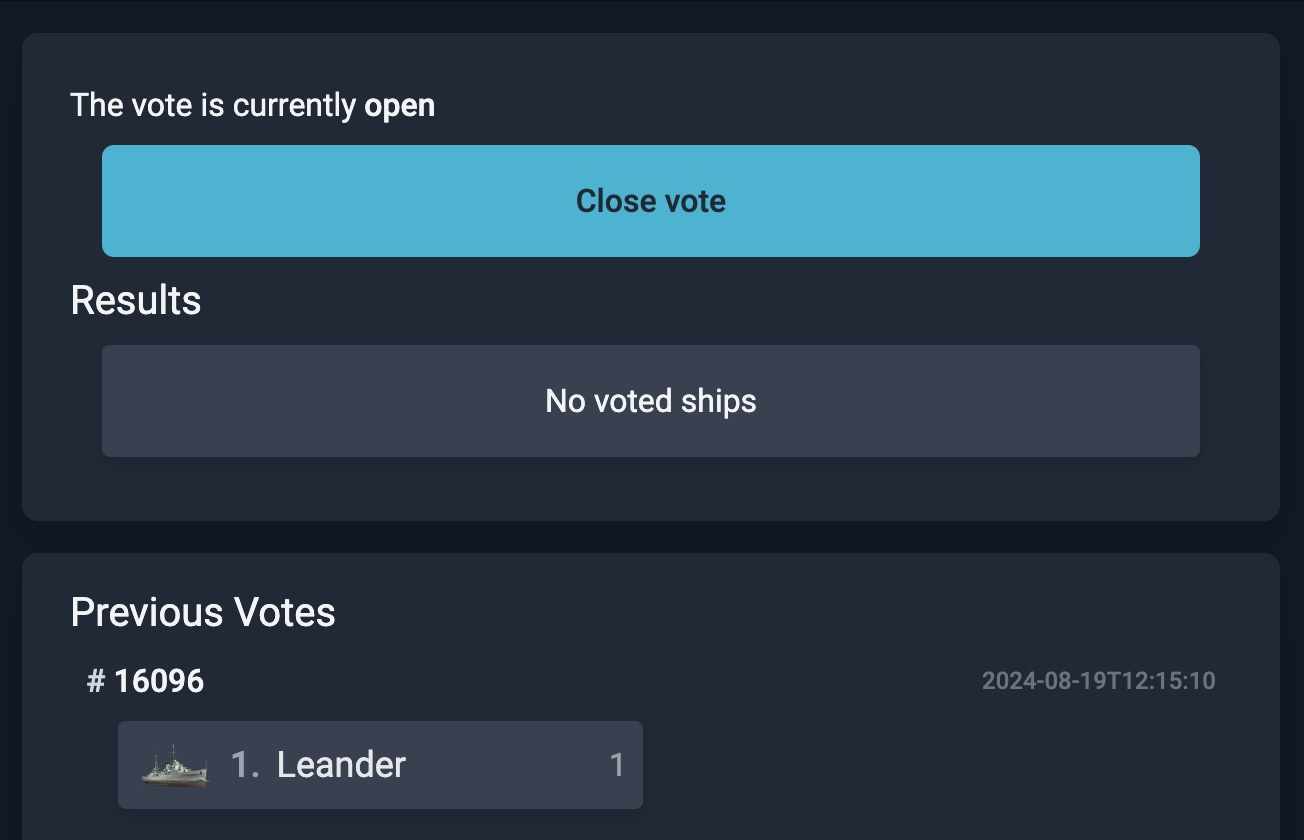
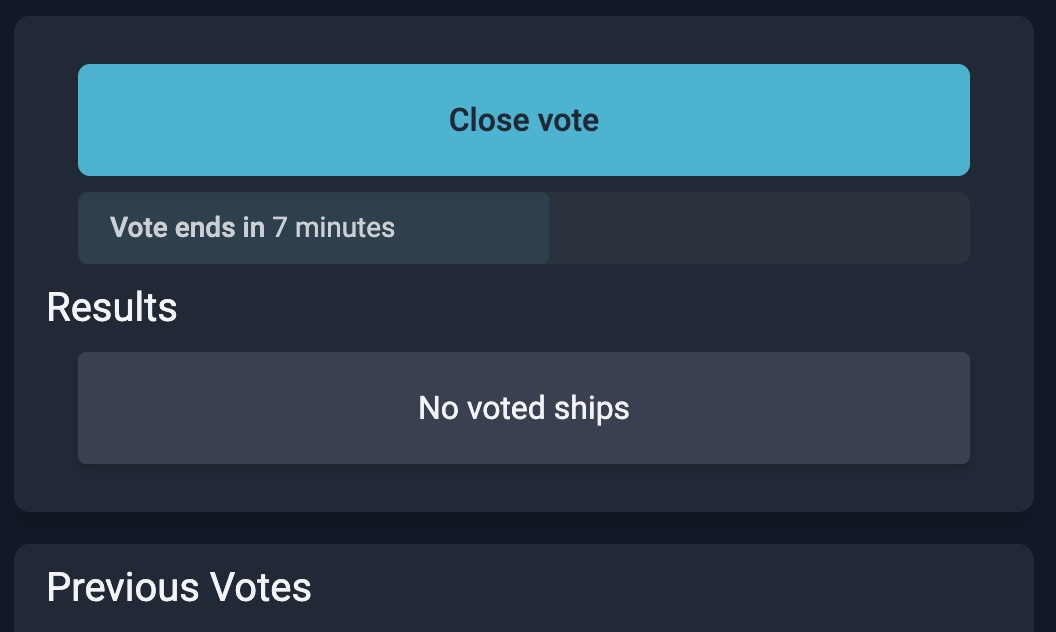
fix remaining vote time

diff --git a/frontend/src/lib/components/VoteStatus.svelte b/frontend/src/lib/components/VoteStatus.svelte
@@ -27,31 +27,28 @@
 
 {#if $vote && $vote.status === "open"}
   <Box>
-    The vote is currently
+    <div class="flex items-center justify-around">
+      <h2 class="text-2xl font-semibold"></h2>
+    </div>
+    <div class="mt-2 flex flex-col justify-around gap-2 px-4">
+      <button
+        on:click={() => closeVote()}
+        class="rounded-md px-8 py-4 font-medium transition active:bg-cyan-600 active:ring-2 active:ring-cyan-400"
+        class:text-gray-800={$vote !== undefined}
+        class:text-gray-200={$vote === undefined}
+        class:bg-gray-700={$vote === undefined}
+        class:bg-cyan-500={$vote !== undefined}
+        class:hover:bg-cyan-400={$vote !== undefined}
+        disabled={$vote === undefined}>Close vote</button
+      >
 
-    <span class="font-medium"> open </span>
-
-    {#if $vote && $vote.status === "open"}
-      <div class="mt-2 flex flex-col justify-around gap-2 px-4">
-        <button
-          on:click={() => closeVote()}
-          class="rounded-md px-8 py-4 font-medium transition active:bg-cyan-600 active:ring-2 active:ring-cyan-400"
-          class:text-gray-800={$vote !== undefined}
-          class:text-gray-200={$vote === undefined}
-          class:bg-gray-700={$vote === undefined}
-          class:bg-cyan-500={$vote !== undefined}
-          class:hover:bg-cyan-400={$vote !== undefined}
-          disabled={$vote === undefined}>Close vote</button
-        >
-
-        {#if vote.ends_at}
-          <RemainingVoteTime
-            started_at={$vote.created_at}
-            ends_at={$vote.ends_at}
-          />
-        {/if}
-      </div>
-    {/if}
+      {#if $vote.ends_at}
+        <RemainingVoteTime
+          started_at={$vote.created_at}
+          ends_at={$vote.ends_at}
+        />
+      {/if}
+    </div>
 
     <div>
       {#if $vote && $vote.status === "open"}
